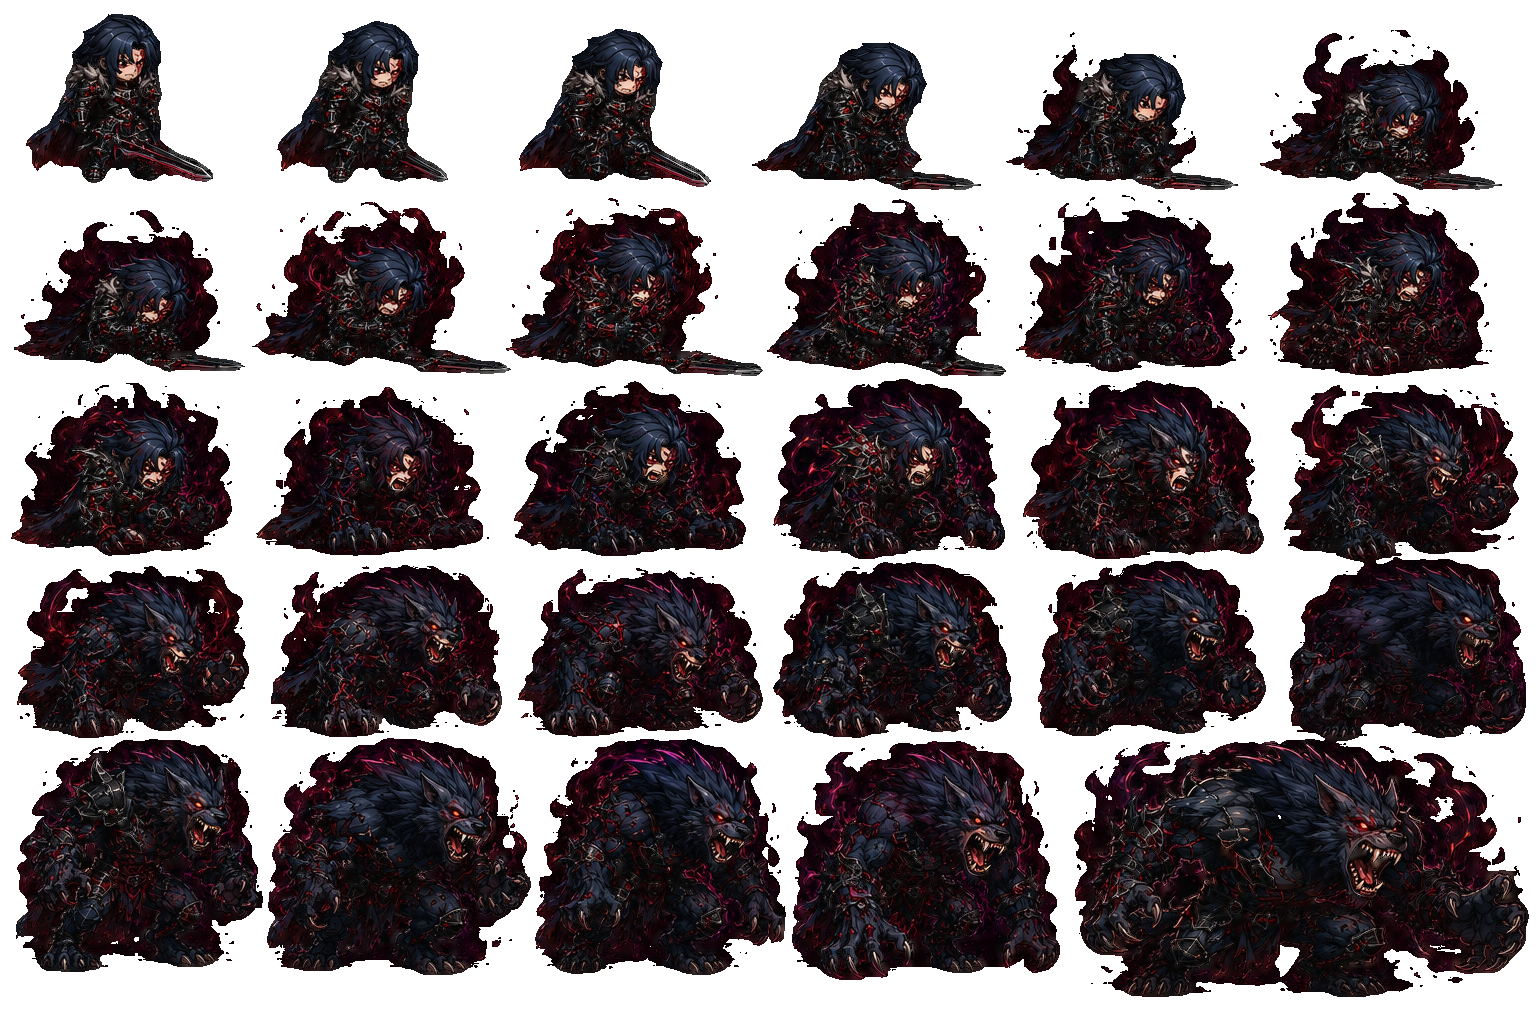
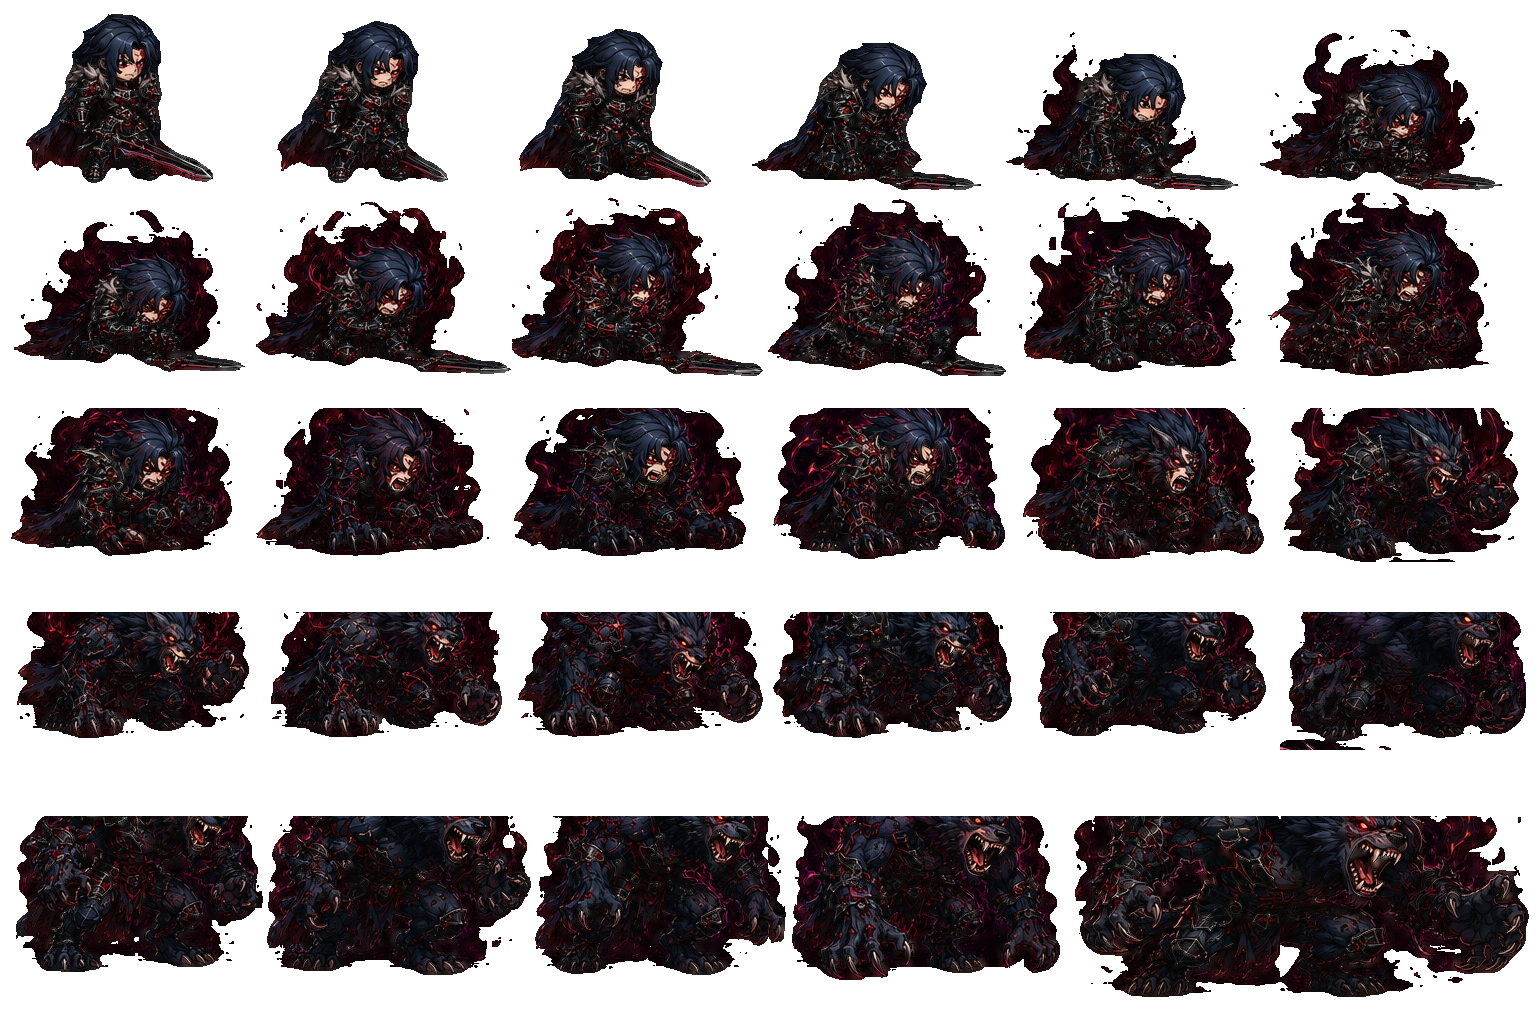
보스 변신간격 수정

diff --git a/js/enemy.js b/js/enemy.js
@@ -101,7 +101,7 @@ const KARON_TRANSFORM_SPRITE = {
   rowCount: 5,
   frameW: 256,
   frameH: 204,
-  totalFrames: 30,
+  totalFrames: 24,
   fps: { transform: 15 },
   drawW: 236,
   drawH: 188,
